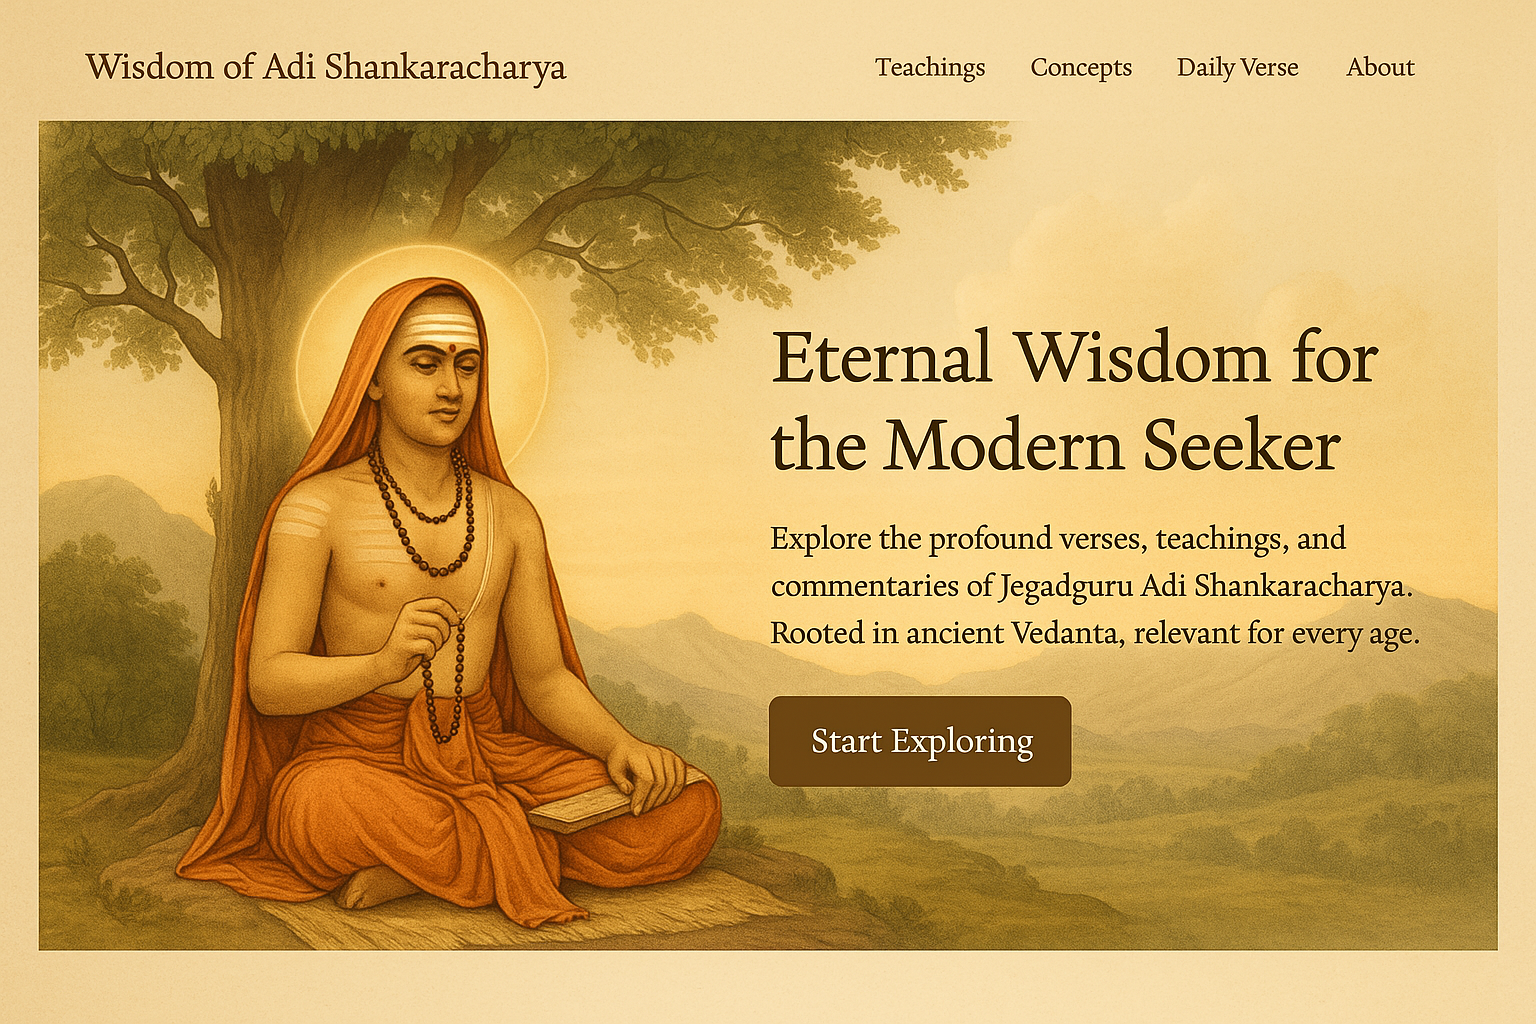
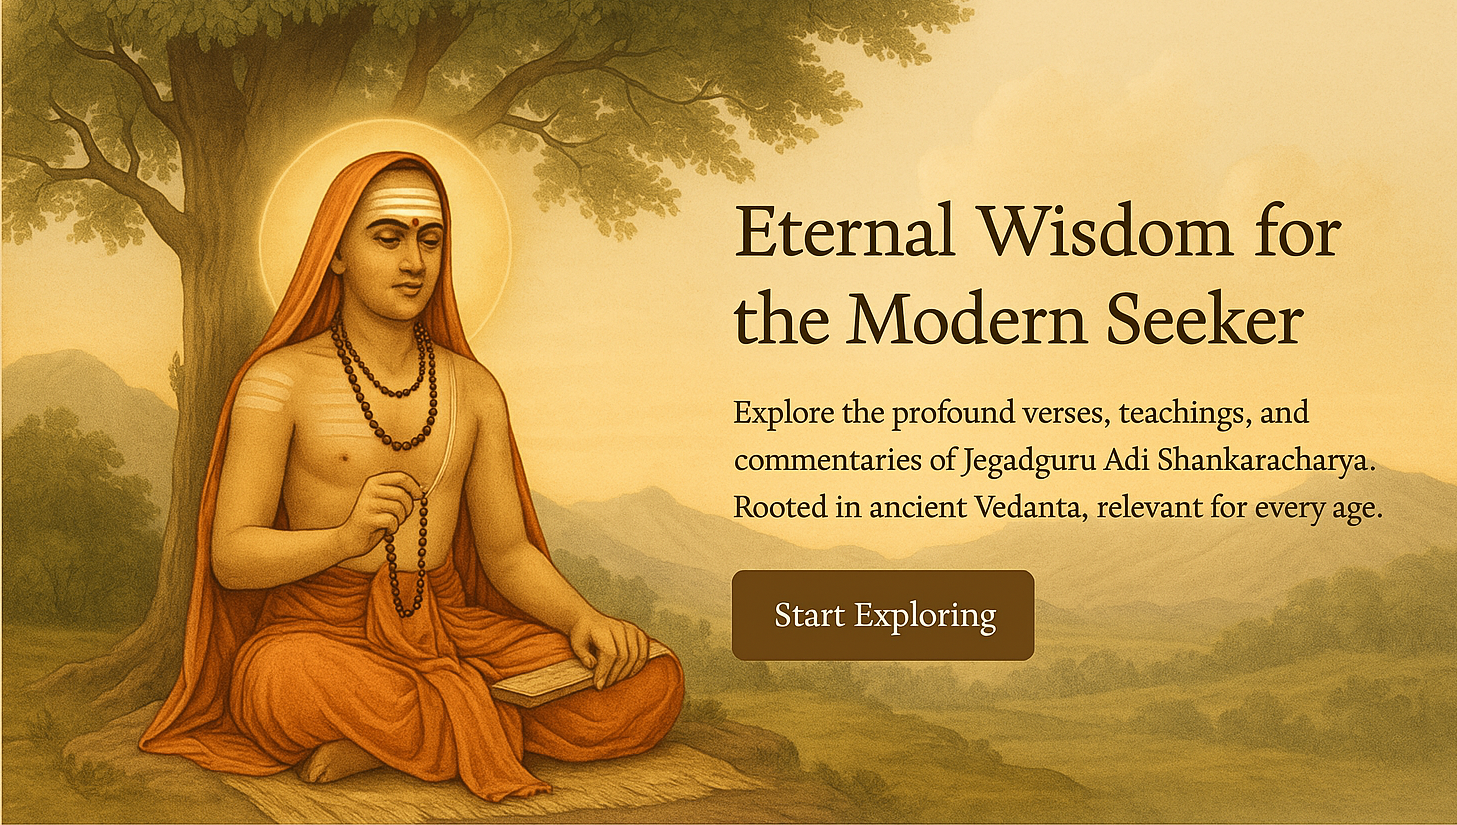
Changes made to hero image

diff --git a/app/page.tsx b/app/page.tsx
@@ -35,14 +35,14 @@ export default function Home() {
       </header>
 
       {/* Hero Section */}
-      <section className="relative py-20 md:py-32 overflow-hidden">
+      <section className="relative py-10 md:py-32 overflow-hidden">
         <div className="container mx-auto px-4 relative z-10 flex flex-col items-center text-center">
           <div className="mb-8 relative">
             <Image
               src="/shankaracharya-meditation.png"
               alt="Adi Shankaracharya Meditating"
-              width={300}
-              height={300}
+              width={800}
+              height={500}
               className="mx-auto"
             />
             <div className="absolute inset-0 bg-gradient-radial from-[#e07c24]/30 to-transparent rounded-full blur-md"></div>

diff --git a/components/Header.tsx b/components/Header.tsx
@@ -4,11 +4,18 @@ export default function Header() {
   return (
     <header style={{ 
       display: 'flex', 
+      flexDirection: 'column', 
       alignItems: 'center', 
-      justifyContent: 'space-between', 
       padding: '10px 20px', 
       backgroundColor: '#f8f9fa' 
     }}>
+      <h1 style={{ 
+        fontSize: '24px', 
+        marginBottom: '2px', // Further reduce margin to minimize the gap
+        textAlign: 'center' 
+      }}>
+        Wisdom of Adi Shankaracharya
+      </h1>
       <Image 
         src="/images/om-logo.png" 
         alt="Om Logo" 
